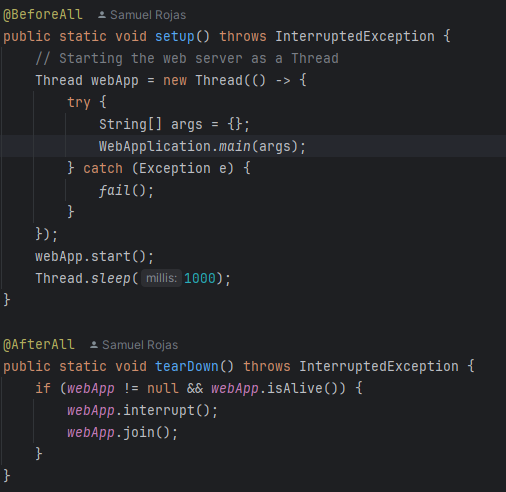
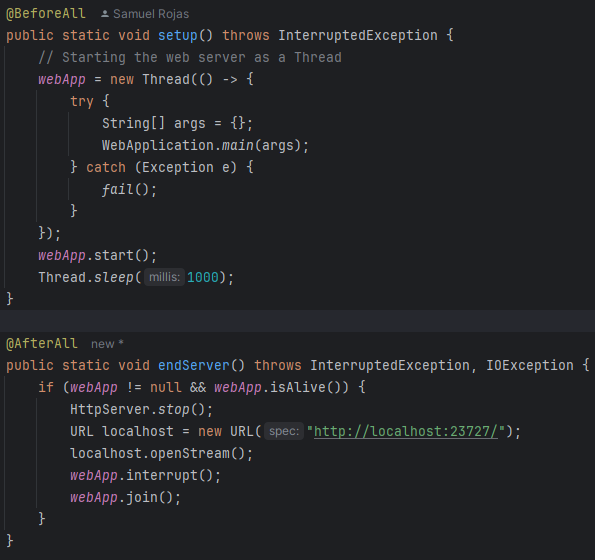
Partial README.md

diff --git a/src/test/java/edu/escuelaing/arep/WebApplicationTest.java b/src/test/java/edu/escuelaing/arep/WebApplicationTest.java
@@ -1,5 +1,6 @@
 package edu.escuelaing.arep;
 
+import edu.escuelaing.arep.http.HttpServer;
 import org.junit.jupiter.api.*;
 
 import java.io.*;
@@ -28,9 +29,14 @@ public class WebApplicationTest {
     }
 
     @AfterAll
-    public static void endServer() throws InterruptedException {
-        webApp.interrupt();
-        webApp.join();
+    public static void endServer() throws InterruptedException, IOException {
+        if (webApp != null && webApp.isAlive()) {
+            HttpServer.stop();
+            URL localhost = new URL("http://localhost:23727/");
+            localhost.openStream();
+            webApp.interrupt();
+            webApp.join();
+        }
     }
 
     @Test
@@ -252,6 +258,10 @@ public class WebApplicationTest {
             reader.close();
             // Assertion
             assertEquals(fileContent.toString(), response.toString());
+
+            // Changing the folder
+            localhost = new URL("http://localhost:23727/app/folder?folder=static");
+            localhost.openStream();
         } catch (IOException e) {
             fail();
         }

diff --git a/src/main/java/edu/escuelaing/arep/http/HttpServer.java b/src/main/java/edu/escuelaing/arep/http/HttpServer.java
@@ -169,4 +169,8 @@ public class HttpServer {
     public static void staticFiles(String path){
         route = "target/classes/" + path;
     }
+
+    public static void stop(){
+        isRunning = false;
+    }
 }

diff --git a/README.md b/README.md
@@ -1,8 +1,9 @@
-# Web Framework Development for REST Services and Static File Management
+# Web Framework Development with Reflection, IoC Pattern and Meta Protocol Objects
 
-This project implements a framework that enables the development of web applications with backend REST services.
-It provides developers tools to define REST services using lambda functions, manage query values within
-requests, and specify the location of static files that will be used in the server.
+This project implements a framework designed to serve HTML pages and PNG images. It also offers an Inversion of Control 
+(IoC) framework for building web applications from POJOs (Plain Old Java Objects). Additionally, it provides developer 
+tools to define REST services with custom annotations, manage query parameters within requests, specify the location of 
+static files for the server and includes a small web application for planning daily activities.
 
 ## Getting Started
 
@@ -43,13 +44,13 @@ git --version
 1. Clone the repository to your local machine using Git.
 
 ```
-git clone https://github.com/SamuRoj/AREP_Taller_2.git
+git clone https://github.com/SamuRoj/AREP_Taller_3.git
 ```
 
 2. Navigate to the project directory.
 
 ```
-cd AREP_Taller_2
+cd AREP_Taller_3
 ```
 
 3. Build the project by running the following command:
@@ -61,7 +62,7 @@ mvn clean install
 4. Execute the project with the following command:
 
 ```
-java -cp target/taller-2-1.0-SNAPSHOT.jar edu.escuelaing.arep.app.WebApplication
+java -cp target/taller-3-1.0-SNAPSHOT.jar edu.escuelaing.arep.app.WebApplication
 ```
 
 5. Once the server is running, open your web browser and visit:
@@ -72,69 +73,53 @@ http://localhost:23727/
 
 ## Features of the application
 
-- A get() method that allows developers to define REST services using lambda functions.
+- **Annotations:**
 
-    - To define a new function the main method of the WebApplication class has to be modified with a new call to
-      the get() method and two parameters, the route of the function and the lambda expression.
+  - GetMapping, PostMapping, DeleteMapping: Loads a method into the services that will be offered in and 
+  clarifies the HTTP method used in the request.
 
-  ![GetMethod.png](src/main/resources/img/GetMethod.png)
+  - RequestParam: It's an annotation made for the parameters and contains two values:
+    - value: The name of the parameter to be retrieved from the request.
+    - defaultValue: The value assigned to the parameter in the method if it is not present in the request. 
 
-    - To access it, the URL has to follow the next structure: `http://localhost:23727/app/+<routeAdded>`
+  - RestController: This annotation enables reading files from disk and automatically loads all methods annotated 
+  with any HTTP annotations, making them available as services.
 
-  ![LambdaExample.png](src/main/resources/img/LambdaExample.png)
+- **Static files endpoint:** Allows developers to define the folder where the files would be queried, this
+method can be requested through the following URL with the parameter folder `http://localhost:23727/app/folder?folder=<folder-name>`.
 
-    - There's already some services defined like "/app/hello", "/app/pi" and "/app/e"
+  - By default, this method has the route `static` defined and every request made will be searched within this
+    folder
 
-- A mechanism to extract query parameters from incoming requests and make them accessible within the REST
-  services.
+    ![Staticfiles.png](src/main/resources/img/Staticfiles.png)
 
-    - The request of the petition has a method called getValues(), it receives a parameter, the name of the
-      parameter that would be retrieved from the query made, to test it a request has to be made to the following
-      URL: `http://localhost:23727/app/greeting?<parameter>=<value>&<parameter>=<value>...`
-      The number of parameters can be any, but only one would be retrieved.
+  - The folder can be changed to newFolder, which contains a basic HTML file. To verify the change, a request 
+  has to be made to the following URL: `http://localhost:23727/app/folder?folder=newFolder`.
 
-  ![QueryParameter.png](src/main/resources/img/QueryParameter.png)
+    ![RouteChange.png](src/main/resources/img/RouteChange.png)
+  
+    ![NewWebpage.png](src/main/resources/img/NewWebpage.png)
 
-    - It's already configured to retrieve the parameter name.
-
-  ![QueryTest.png](src/main/resources/img/QueryTest.png)
-
-    - To test another parameter it has to be changed in the method getValues() shown before. In case, the parameter
-      doesn't exist, Not Found will be retrieved.
-
-- A staticfiles() method that allows developers to define the folder where static files would be queried.
-
-    - By default, this method has the route `/static` defined and every request made would be searched in this
-      folder
-
-  ![Staticfiles.png](src/main/resources/img/Staticfiles.png)
-
-    - The folder can be changed to /newFolder, which contains a basic HTML file. To verify the change, the
-      staticfiles() method must be configured to use "/newFolder", and a request should be made to the
-      URL http://localhost:23727/.
-
-  ![RouteChange.png](src/main/resources/img/RouteChange.png)
-  ![NewWebpage.png](src/main/resources/img/NewWebpage.png)
-
-    - The REST services defined with the get() method will continue to be available.
+  - **Note:** The REST services defined within the controllers will continue to be available.
 
 - Query for static files located in the defined folder, to do this just add to the route of the page the name
-  of the file like `http://localhost:23727/styles.css`, it can be made with any file that's located in the
+  of the file like `http://localhost:23727/<filename>`, it can be made with any file that's located in the
   current folder.
 
-![QueryFile.png](src/main/resources/img/QueryFile.png)
+  ![QueryFile.png](src/main/resources/img/QueryFile.png)
 
 - The main page contains a small app that allows the user to add his daily activities through requests methods
   like GET, POST and DELETE, it's made with HTML, CSS and JavaScript to make asynchronous petitions to the server
-  and add new activities to it.
+  and add new activities to it, all the services mentioned before are found in the ApiController.java file through a
+  REST service.
 
-![Webpage.png](src/main/resources/img/Webpage.png)
+  ![Webpage.png](src/main/resources/img/Webpage.png)
 
 ## Architecture
 
 ### Class Diagram
 
-![ClassDiagram.png](src/main/resources/img/ClassDiagram.png)
+  ![ClassDiagram.png](src/main/resources/img/ClassDiagram.png)
 
 ### Classes
 
@@ -148,7 +133,7 @@ http://localhost:23727/
 
 ### Deployment Diagram
 
-![DeploymentDiagram.png](src/main/resources/img/DeploymentDiagram.png)
+  ![DeploymentDiagram.png](src/main/resources/img/DeploymentDiagram.png)
 
 ### Overview
 
@@ -182,11 +167,23 @@ The tests in this file check the functionality of the method getValues() impleme
 
 - Example of test:
 
-![HttpRequestTest.png](src/main/resources/img/HttpRequestTest.png)
+  ![HttpRequestTest.png](src/main/resources/img/HttpRequestTest.png)
 
 - Image of the results:
 
-![HttpRequestTestResults.png](src/main/resources/img/HttpRequestTestResults.png)
+  ![HttpRequestTestResults.png](src/main/resources/img/HttpRequestTestResults.png)
+
+### HttpResponseTest
+
+The tests in this file check the functionality of the method parseValues() implemented in the class.
+
+- Example of test:
+
+  ![HttpResponseTest.png](src/main/resources/img/HttpResponseTest.png)
+
+- Image of the results:
+
+  ![HttpResponseTestResults.png](src/main/resources/img/HttpResponseTestResults.png)
 
 ### HttpServerTest
 
@@ -195,38 +192,38 @@ a valid or invalid answer in case it doesn't exist.
 
 - Example of test:
 
-![MimeType.png](src/main/resources/img/MimeType.png)
+  ![MimeType.png](src/main/resources/img/MimeType.png)
 
 - Image of the results:
 
-![HttpServerTestResults.png](src/main/resources/img/HttpServerTestResults.png)
+  ![HttpServerTestResults.png](src/main/resources/img/HttpServerTestResults.png)
 
 ### WebApplicationTest
 
 The tests in this file runs the application as a thread to check its connectivity and answers to different
-requests for a file like index.html, script.js, styles.css and wallpaper.jpeg. It also verifies the tools to
-define REST services with lambda functions by querying endpoints like `/app/hello`, `/app/pi`, `/app/e` and
-`/app/greeting?name=Samuel`.
+requests for a file like index.html, script.js, styles.css and wallpaper.jpeg. It also verifies the functionality of
+the REST services defined within the controllers with custom annotations by querying endpoints like `/app/hello`, 
+`/app/pi`, `/app/e`, `/app/greeting?name=Samuel`, etc.
 
 - Example of request for a file:
 
     - Starts and finish the server every time a test its executed.
 
-![BeforeAfter.png](src/main/resources/img/BeforeAfter.png)
+      ![BeforeAfter.png](src/main/resources/img/BeforeAfter.png)
 
 - Finds the file locally and makes a query to the server to compare the responses.
 
-![WATestStructure.png](src/main/resources/img/WATestStructure.png)
+  ![WATestStructure.png](src/main/resources/img/WATestStructure.png)
 
 - Example of request for a REST service defined with lambda:
 
     - It makes a request to an endpoint and asserts the answer it's the same as the one already defined.
 
-![RSTestStructure.png](src/main/resources/img/RSTestStructure.png)
+      ![RSTestStructure.png](src/main/resources/img/RSTestStructure.png)
 
 - Image of the results:
 
-![WebApplicationTestResults.png](src/main/resources/img/WebApplicationTestResults.png)
+  ![WebApplicationTestResults.png](src/main/resources/img/WebApplicationTestResults.png)
 
 ## Built With
 
